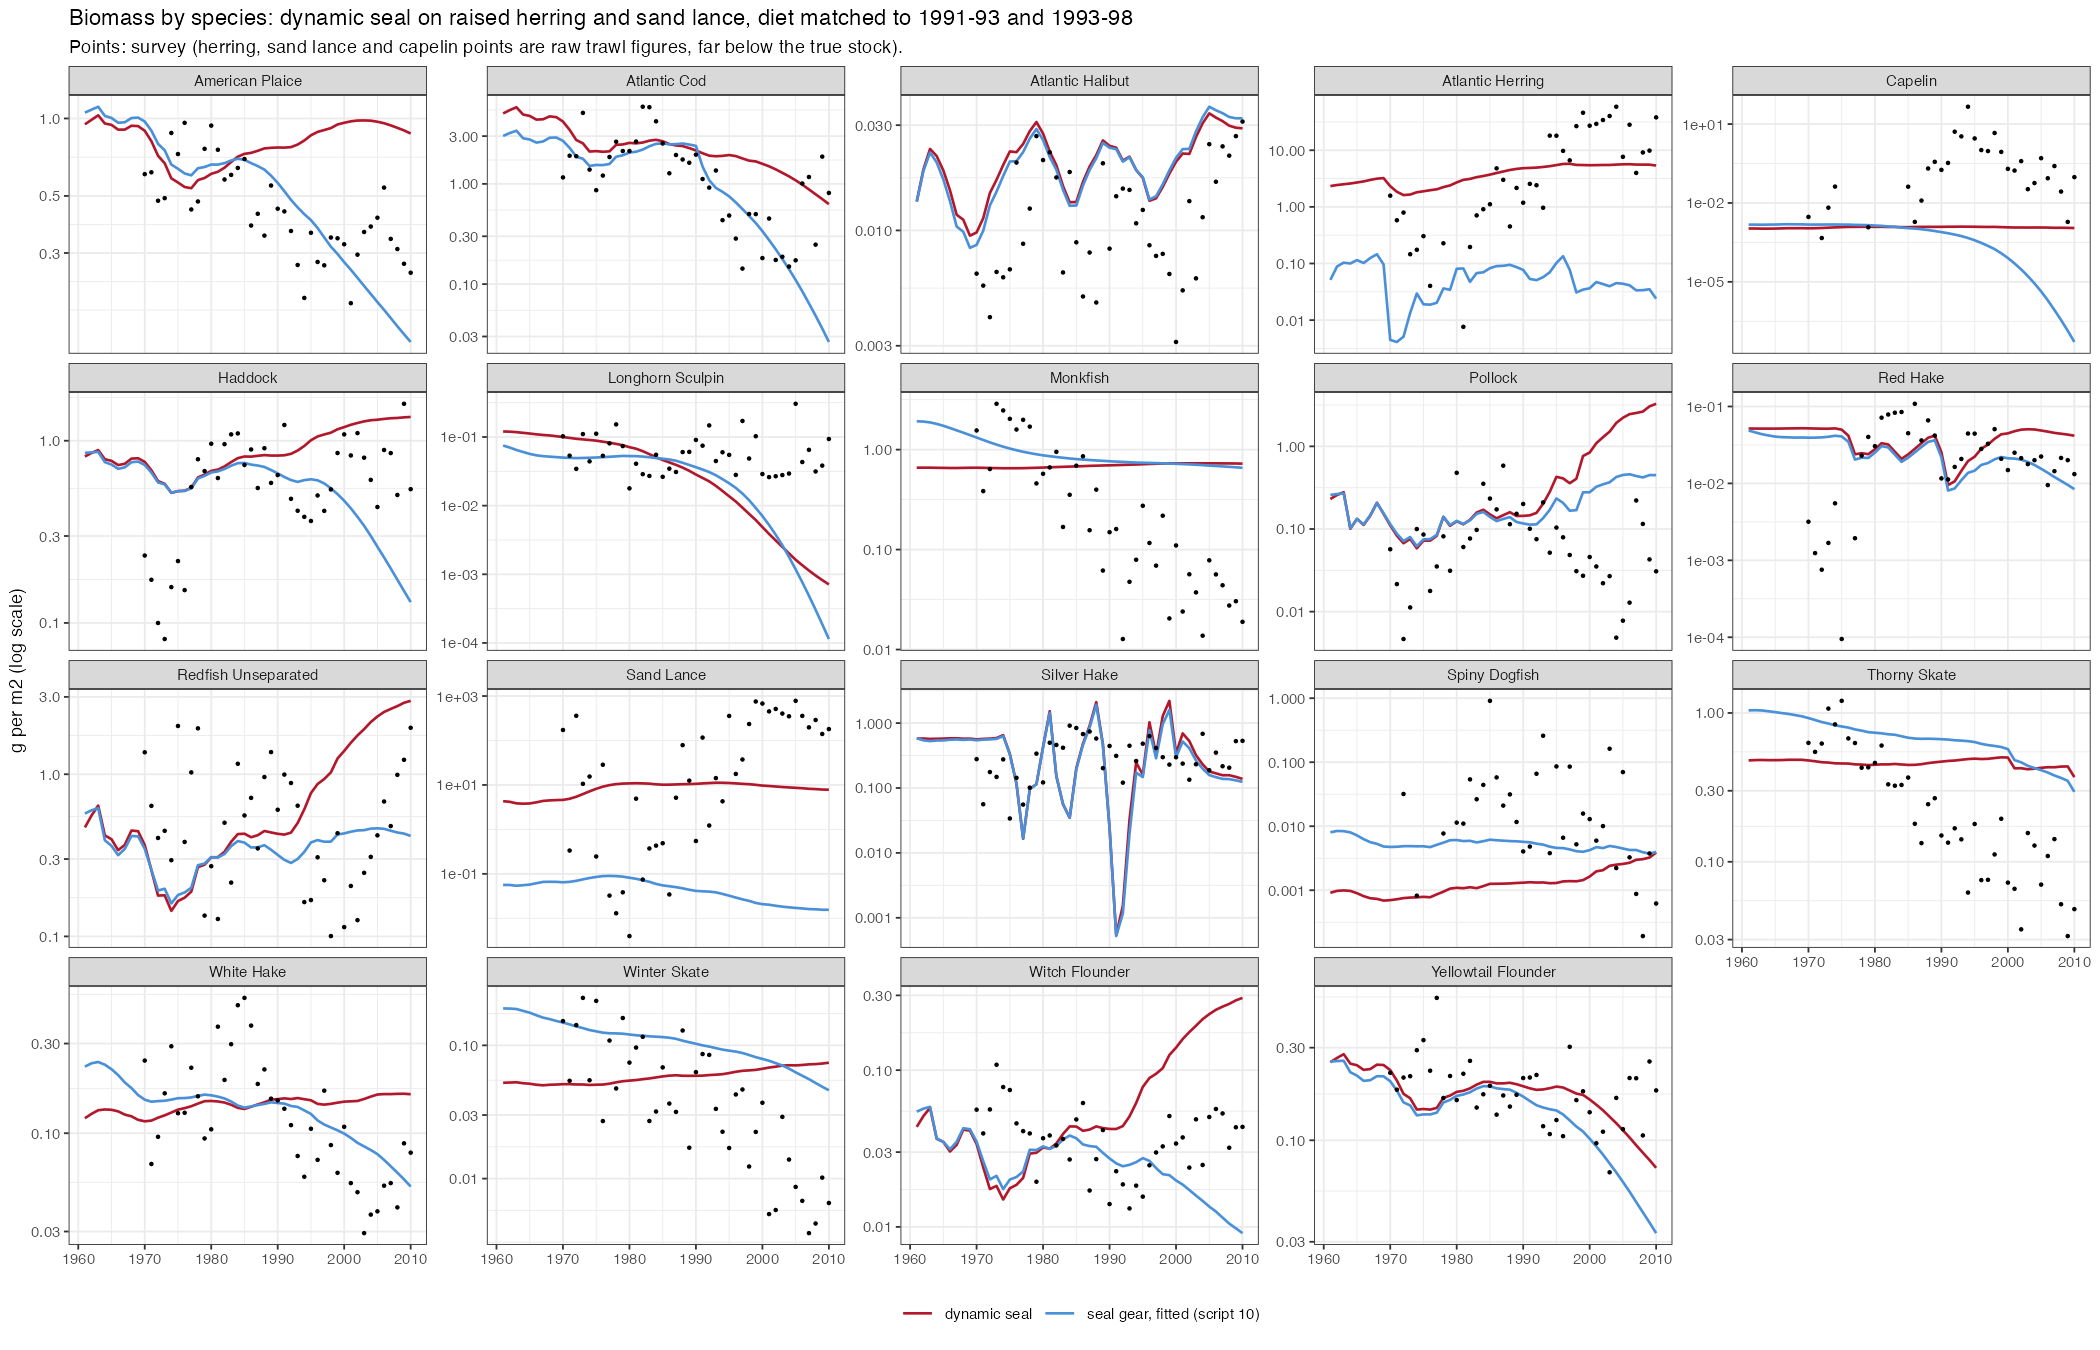
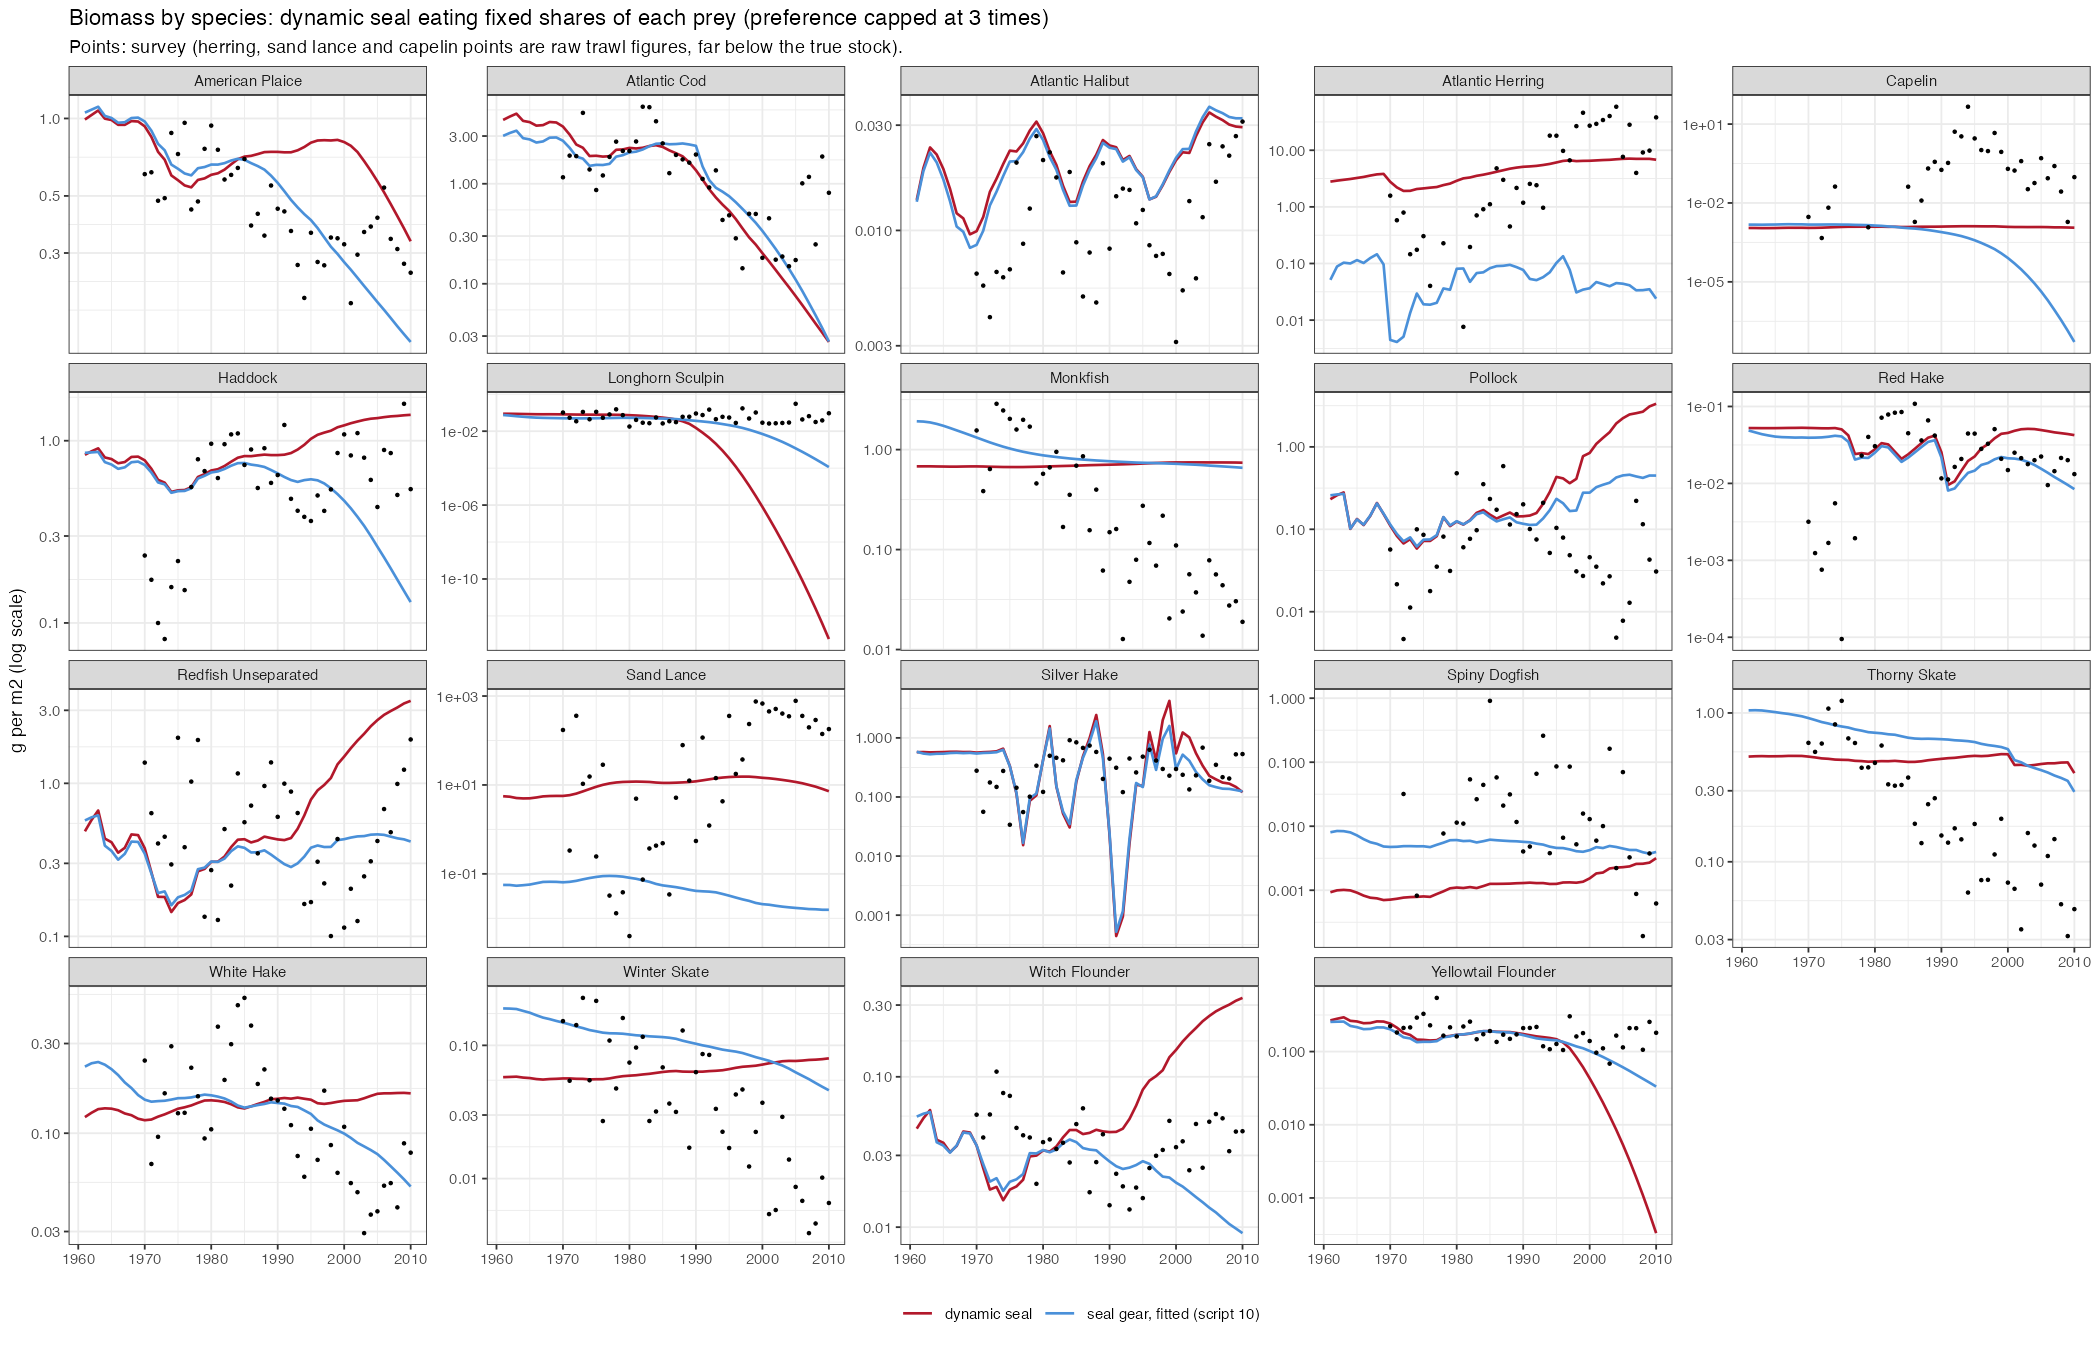
Let seals eat fixed shares of each prey, with a cap on preference

diff --git a/HANDOVER_2026-11-26.md b/HANDOVER_2026-11-26.md
@@ -2151,6 +2151,61 @@ Redfish is a separate problem: the model takes 22-29 kt a year in 1978-92
 against 10-17 kt reported, at an exploitation rate near 0.5 a year, so it
 rebounds about four-fold when trawling stops.
 
+## 34. Seals eating fixed shares of each prey
+
+Tried because the two measured diets show cod and flatfish holding or
+raising their share of the seal diet while their stocks fell (sections 31 and
+33). Two diet samples are thin support: this is a hypothesis.
+
+How: the switching exponent set to 0 (`SWITCHING_EXPONENT=0` in script 9).
+Each seal then eats the same amount of a prey however much of it there is, so
+seal mortality on a prey rises as the prey becomes scarce. Because that grows
+without limit, `SWITCHING_LARGEST_MULTIPLIER` caps how far a preference can
+rise above its calibrated value. The seal is calibrated to the average of the
+two measured diets (script 8 without script 10), on the raised herring and
+sand lance base, with seals fitted to the counts.
+
+Cod biomass, kt (survey values are three-year means):
+
+| | 1985 | 1990 | 1993 | 1995 | 2000 | 2005 | 2010 |
+|---|---|---|---|---|---|---|---|
+| survey | 391 | 229 | 132 | 59 | 55 | 65 | 175 |
+| cap 2 | 349 | 220 | 146 | 124 | 61 | 26 | 9 |
+| cap 3 | 342 | 200 | 107 | 78 | 30 | 11 | 4 |
+| cap 5 | 341 | 195 | 92 | 62 | 20 | 7 | 2 |
+| cap 20 | 341 | 192 | 83 | 54 | 16 | 5 | 2 |
+| exponent 0.5, cap 20 | 374 (1985) | 287 | 226 | 199 | 83 | 30 | 10 |
+| Smout 1.5 (section 32) | - | 316 | - | 284 | 232 | 159 | 92 |
+
+Cod in 1994-2004 relative to 1978-81 (0.13 observed): 0.23, 0.13, 0.10 and
+0.08 for caps 2, 3, 5 and 20.
+
+- This is the first driver-linked run to reproduce the cod collapse with its
+  timing: with a cap of 3 to 5 the model follows the survey from 1985 to 1995.
+  No fitted cod term is involved; the driver is the counted rise in seals.
+- It then fails the other way. Cod goes on to extinction where the survey
+  levels off after 1995 and recovers after 2005. Yellowtail and silver hake
+  are also driven out after 2000 (yellowtail 22 kt in 1995, under 1 kt by
+  2005). Seal mortality on young cod reaches 3 to 8 a year by 2000 with the
+  lower caps, far beyond anything plausible.
+- The cap decides how deep and fast the collapse is, and it is my choice, not
+  a measured quantity.
+- The diet shares are not in fact held: once the cap binds, cod falls to 1-2%
+  of the 1993-98 diet against 13% measured.
+- Plaice still does not decline before 2000 (118 kt in 1995 against a
+  surveyed 44 kt), and haddock and redfish still rise.
+- Seals do well: 1.3 t of fish each in 2010 and 300 thousand against 280
+  counted.
+
+What it suggests: something like fixed-share feeding while cod is moderately
+scarce, with relief at very low abundance (a refuge, or seals giving up on a
+prey that is nearly gone), would give collapse followed by a low plateau.
+That is a predator-pit shape and is what Smout et al. describe for a Type 3
+response at low density; the exponent of 1.5 applied over the whole range
+gives the relief but not the squeeze.
+
+Figures `dynseal_bowen_*.png` are from the cap 3 run.
+
 ## Commits on `julia`
 
 ```

diff --git a/dynamic_seal_trial/README.md b/dynamic_seal_trial/README.md
@@ -73,7 +73,9 @@ Rscript dynamic_seal_trial/plot_seal_on_bowen_diet.R
   multiplied by (availability now / availability in the calibrated state)^0.5,
   their exponent of 1.5 less 1. Sourced by script 9; `PREY_SWITCHING=0` turns
   it off, `NO_SWITCHING_FOR="Atlantic Cod"` turns it off for named prey, and
-  `SWITCHING_EXPONENT` tries another exponent.
+  `SWITCHING_EXPONENT` tries another exponent. `SWITCHING_EXPONENT=0` makes
+  seals eat fixed shares of each prey (handover section 34); use it with
+  `SWITCHING_LARGEST_MULTIPLIER` (for example 3) and without script 10.
 - `10_match_seal_diet_to_both_periods.R`: repeats scripts 8, 5 and 9, moving
   the diet script 8 calibrates to in small bounded steps so the projected diet
   comes closer to the measured one in both periods, and finishes on the best
